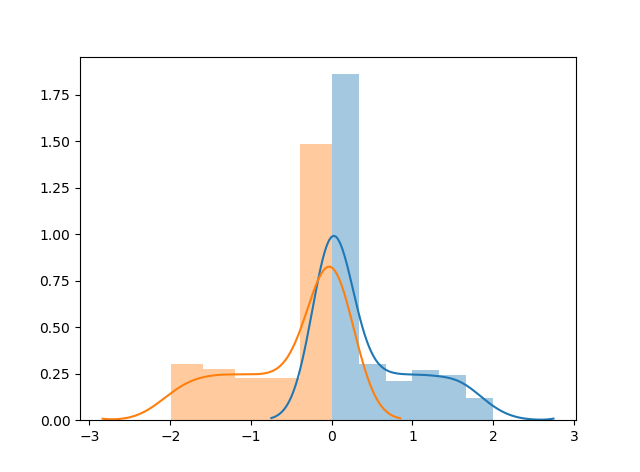
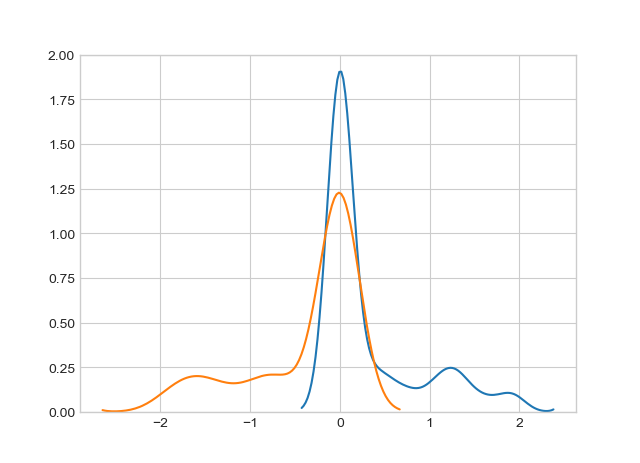
Added plots to the tex file

diff --git a/docs/assignment-2/src/2.a/plot.py b/docs/assignment-2/src/2.a/plot.py
@@ -16,7 +16,8 @@ for i, value in enumerate(X):
     if(X[i] >= 0) and (X[i] <= 1):
         Z[i] = 2*X[i] - 2
 
-sns.distplot(Y, fit_kws={"color":"windows blue"})
-sns.distplot(Z, fit_kws={"color":"faded green"})
+sns.set_style('whitegrid')
+sns.kdeplot(Y)
+sns.kdeplot(Z)
 
 plt.show()
